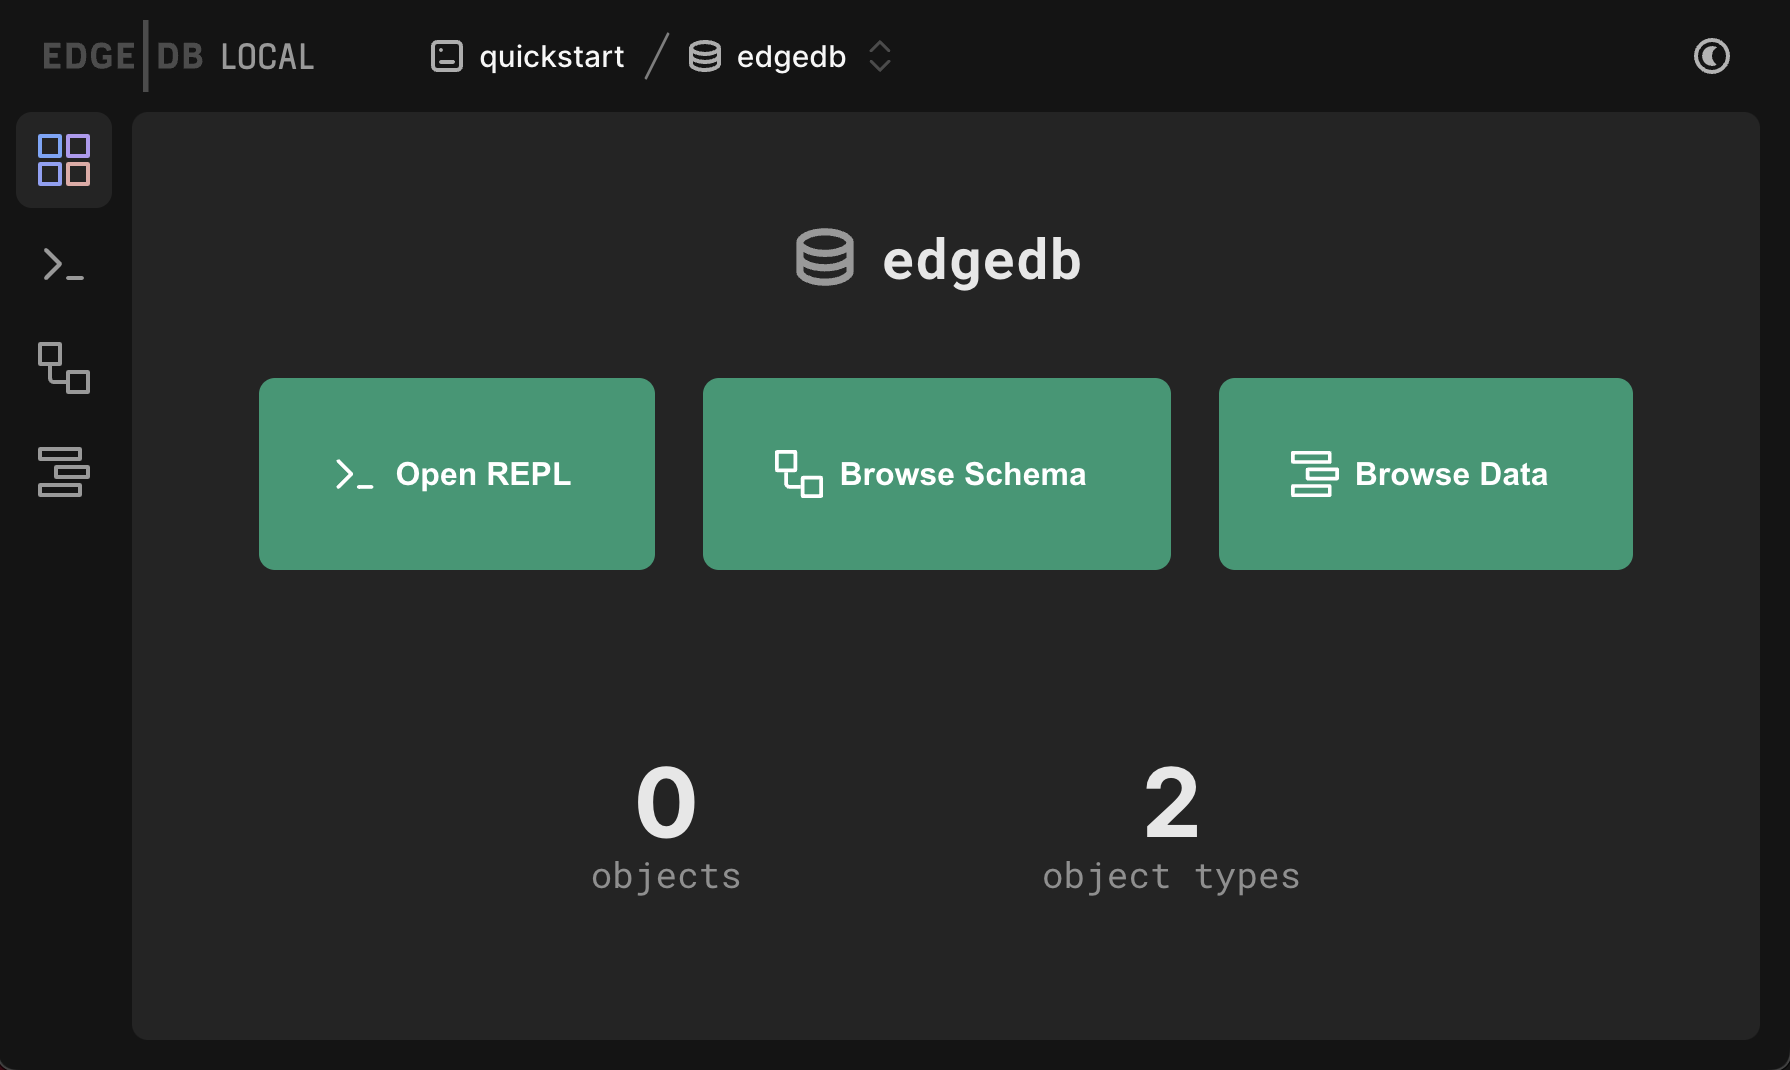
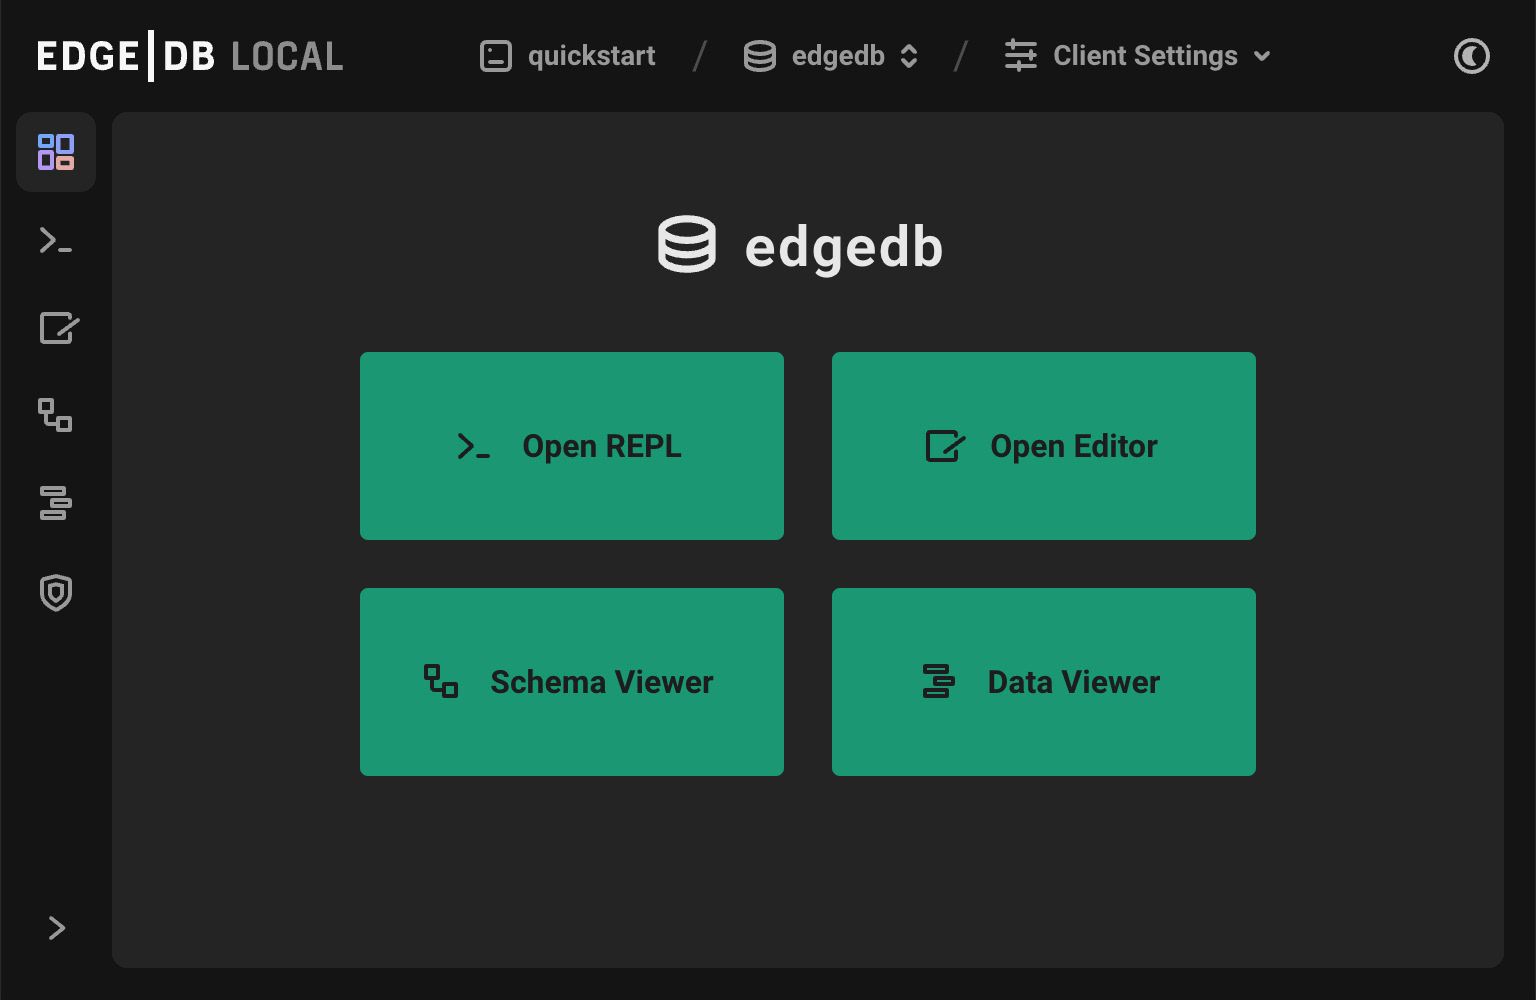
docs: Update the Get Started docs to 4.1

diff --git a/docs/intro/quickstart.rst b/docs/intro/quickstart.rst
@@ -75,22 +75,23 @@ up your first EdgeDB instance. You should see something like this:
   No `edgedb.toml` found in `/path/to/quickstart` or above
   Do you want to initialize a new project? [Y/n]
   > Y
-  Specify the name of EdgeDB instance to use with this project [quickstart]:
+  Specify the name of EdgeDB instance to use with this project
+  [default: quickstart]:
   > quickstart
   Checking EdgeDB versions...
-  Specify the version of EdgeDB to use with this project [default: 2.x]:
-  > 2.x
+  Specify the version of EdgeDB to use with this project [default: 4.x]:
+  > 4.x
   ┌─────────────────────┬───────────────────────────────────────────────┐
   │ Project directory   │ ~/path/to/quickstart                          │
   │ Project config      │ ~/path/to/quickstart/edgedb.toml              │
   │ Schema dir (empty)  │ ~/path/to/quickstart/dbschema                 │
   │ Installation method │ portable package                              │
-  │ Version             │ 2.x+c21decd                                   │
+  │ Version             │ 4.x+cc4f3b5                                   │
   │ Instance name       │ quickstart                                    │
   └─────────────────────┴───────────────────────────────────────────────┘
   Downloading package...
-  00:00:01 [====================] 32.98MiB/32.98MiB 32.89MiB/s | ETA: 0s
-  Successfully installed 2.x+c21decd
+  00:00:01 [====================] 41.40 MiB/41.40 MiB 32.89MiB/s | ETA: 0s
+  Successfully installed 4.x+cc4f3b5
   Initializing EdgeDB instance...
   Applying migrations...
   Everything is up to date. Revision initial
@@ -304,12 +305,13 @@ Enter ``y`` to confirm the change.
   > y
   Please specify an expression to populate existing objects in
   order to make property 'title' of object type 'default::Movie' required:
-  fill_expr>
+  fill_expr> <std::str>{}
 
 Hm, now we're seeing another prompt. Because ``title`` is changing from
 *optional* to *required*, EdgeDB is asking us what to do for all the ``Movie``
 objects that don't currently have a value for ``title`` defined. We'll just
-specify a placeholder value: ``"Untitled"``.
+specify a placeholder value of "Untitled". Replace the ``<std::str>{}`` value
+with ``"Untitled"`` and press Enter.
 
 .. code-block::
 
@@ -324,7 +326,7 @@ lines:
 
   ALTER TYPE default::Movie {
     ALTER PROPERTY title {
-      SET REQUIRED USING ("Untitled");
+      SET REQUIRED USING ('Untitled');
     };
   };
 
@@ -366,14 +368,16 @@ default. Click the ``edgedb`` card.
 .. image:: images/ui_db.jpg
   :width: 100%
 
-Then click ``Open REPL`` so we can start writing some queries. We'll start
-simple: ``select "Hello world!"``. Click ``RUN`` to execute the query.
+Then click ``Open Editor`` so we can start writing some queries. We'll start
+simple: ``select "Hello world!";``. Click ``RUN`` to execute the query.
 
 .. image:: images/ui_hello.jpg
     :width: 100%
 
-The query should appear in the "query notebook" on the right, along with the
-result of the query.
+The result of the query will appear on the right.
+
+The query will also be added to your history of previous queries, which can be
+accessed via the "HISTORY" tab located on the lower left side of the editor.
 
 Now let's actually ``insert`` an object into our database. Copy the following
 query into the query textarea and hit ``Run``.
@@ -409,7 +413,8 @@ Finally, we can run a ``select`` query to fetch all the data we just inserted.
     }
   };
 
-Click ``COPY AS JSON`` to copy the result of this query to your clipboard. It
+Click the outermost ``COPY`` button in the top right of the query result area
+to copy the result of this query to your clipboard as JSON. The copied text
 will look something like this:
 
 .. code-block:: json
@@ -418,8 +423,12 @@ will look something like this:
     {
       "title": "Dune",
       "actors": [
-        { "name": "Timothee Chalamet" },
-        { "name": "Zendaya" }
+        {
+          "name": "Timothee Chalamet"
+        },
+        {
+          "name": "Zendaya"
+        }
       ]
     }
   ]

diff --git a/docs/intro/cli.rst b/docs/intro/cli.rst
@@ -37,7 +37,7 @@ shell environment. Then test the installation:
 .. code-block:: bash
 
     $ edgedb --version
-    EdgeDB CLI 2.x+abcdefg
+    EdgeDB CLI 4.x+abcdefg
 
 .. note::
 
@@ -60,23 +60,19 @@ to see a breakdown of all the commands and options.
 .. code-block:: bash
 
   $ edgedb --help
-  EdgeDB CLI
-  Use the edgedb command-line tool to spin up local instances, manage EdgeDB
-  projects, create and apply migrations, and more.
+  Usage: edgedb [OPTIONS] [COMMAND]
 
-  Running edgedb without a subcommand opens an interactive shell.
+  Commands:
+    <list of commands>
 
-  USAGE:
-    edgedb [OPTIONS] [SUBCOMMAND]
-
-  OPTIONS:
+  Options:
     <list of options>
 
-  CONNECTION OPTIONS (edgedb --help-connect to see the full list):
+  Connection Options (edgedb --help-connect to see full list):
     <list of connection options>
 
-  SUBCOMMANDS:
-    <list of all major commands>
+  Cloud Connection Options:
+    <list of cloud connection options>
 
 The majority of CLI commands perform some action against a *particular* EdgeDB
 instance. As such, there are a standard set of flags that are used to specify
@@ -86,28 +82,31 @@ information like TLS certificates. The following command documents these flags.
 .. code-block:: bash
 
   $ edgedb --help-connect
-  -I, --instance <instance>
-        Local instance name created with edgedb instance create to connect to
-        (overrides host and port)
-  --dsn <dsn>
-        DSN for EdgeDB to connect to (overrides all other options except
-        password)
-  --credentials-file <credentials_file>
-        Path to JSON file to read credentials from
-  -H, --host <host>
-        Host of the EdgeDB instance
-  -P, --port <port>
-        Port to connect to EdgeDB
-  --unix-path <unix_path>
-        Unix socket dir for the
-  -u, --user <user>
-        User name of the EdgeDB user
-  -d, --database <database>
-        Database name to connect to
-  --password
-        Ask for password on the terminal (TTY)
-  --no-password
-        Don't ask for password
+  Connection Options (full list):
+
+    -I, --instance <INSTANCE>
+            Instance name (use `edgedb instance list` to list local, remote and
+            Cloud instances available to you)
+
+        --dsn <DSN>
+            DSN for EdgeDB to connect to (overrides all other options except
+            password)
+
+        --credentials-file <CREDENTIALS_FILE>
+            Path to JSON file to read credentials from
+
+    -H, --host <HOST>
+            EdgeDB instance host
+
+    -P, --port <PORT>
+            Port to connect to EdgeDB
+
+        --unix-path <UNIX_PATH>
+            A path to a Unix socket for EdgeDB connection
+
+            When the supplied path is a directory, the actual path will be
+            computed using the `--port` and `--admin` parameters.
+    ...
 
 If you ever want to see documentation for a particular command (``edgedb
 migration create``) or group of commands (``edgedb instance``), just append
@@ -118,19 +117,15 @@ the ``--help`` flag.
   $ edgedb instance --help
   Manage local EdgeDB instances
 
-  USAGE:
-      edgedb instance <SUBCOMMAND>
+  Usage: edgedb instance <COMMAND>
 
-  OPTIONS:
-      -h, --help    Print help information
-
-  SUBCOMMANDS:
-      create            Initialize a new EdgeDB instance
-      credentials       Echo credentials to connect to the instance
-      destroy           Destroy an instance and remove the data
-      link              Link a remote instance
-      list              Show all instances
-      ...
+  Commands:
+    create          Initialize a new EdgeDB instance
+    list            Show all instances
+    status          Show status of an instance
+    start           Start an instance
+    stop            Stop an instance
+    ...
 
 Upgrade the CLI
 ---------------

diff --git a/docs/intro/projects.rst b/docs/intro/projects.rst
@@ -54,13 +54,19 @@ project init`` inside it. You'll see something like this:
   No `edgedb.toml` found in this repo or above.
   Do you want to initialize a new project? [Y/n]
   > Y
-  Specify the version of EdgeDB to use with this project [2.x]:
-  > # (left blank for default)
-  Specify the name of EdgeDB instance to use with this project:
+  Specify the name of EdgeDB instance to use with this project
+  [default: my_instance]:
   > my_instance
+  Checking EdgeDB versions...
+  Specify the version of EdgeDB to use with this project [default: 4.x]:
+  > # (left blank for default)
+  ...
+  Successfully installed 4.x+cc4f3b5
   Initializing EdgeDB instance...
-  Bootstrap complete. Server is up and running now.
-  Project initialialized.
+  Applying migrations...
+  Everything is up to date. Revision initial
+  Project initialized.
+  To connect to my_instance, run `edgedb`
 
 This command does a couple important things.
 
@@ -73,7 +79,7 @@ This command does a couple important things.
    .. code-block:: toml
 
      [edgedb]
-     server-version = "2.1"
+     server-version = "4.1"
 
 3. If no ``dbschema`` directory exists, it will be created, along with an
    empty ``default.esdl`` file which will contain your schema. If a
@@ -103,9 +109,9 @@ executed against the project-linked instance. For instance, you can simply run
 .. code-block:: bash
 
   $ edgedb
-  EdgeDB 2.x+88c1706 (repl 2.x+a7fc49b)
+  EdgeDB 4.x+cc4f3b5 (repl 4.x+da2788e)
   Type \help for help, \quit to quit.
-  edgedb> select "Hello world!";
+  my_instance:edgedb> select "Hello world!";
 
 By contrast, if you leave the project directory, the CLI will no longer know
 which instance to connect to. You can solve this by specifing an instance name
@@ -115,14 +121,13 @@ with the ``-I`` flag.
 
   $ cd ~
   $ edgedb
-  ClientNoCredentialsError: no `edgedb.toml` found and no
-  connection options are specified
-  Hint: Run `edgedb project init` or use any of `-H`, `-P`, `-I` arguments
-  to specify connection parameters. See `--help` for details
+  edgedb error: no `edgedb.toml` found and no connection options are specified
+    Hint: Run `edgedb project init` or use any of `-H`, `-P`, `-I` arguments to
+    specify connection parameters. See `--help` for details
   $ edgedb -I my_instance
-  EdgeDB 2.x+88c1706 (repl 2.x+a7fc49b)
+  EdgeDB 4.x+cc4f3b5 (repl 4.x+da2788e)
   Type \help for help, \quit to quit.
-  edgedb>
+  my_instance:edgedb>
 
 Similarly, client libraries will auto-connect to the project's
 linked instance without additional configuration.
@@ -140,13 +145,13 @@ instance using ``edgedb instance link``, like so:
 .. code-block:: bash
 
   $ edgedb instance link
-  Specify the host of the server [default: localhost]:
+  Specify server host [default: localhost]:
   > 192.168.4.2
-  Specify the port of the server [default: 5656]:
+  Specify server port [default: 5656]:
   > 10818
-  Specify the database user [default: edgedb]:
+  Specify database user [default: edgedb]:
   > edgedb
-  Specify the database name [default: edgedb]:
+  Specify database name [default: edgedb]:
   > edgedb
   Unknown server certificate: SHA1:c38a7a90429b033dfaf7a81e08112a9d58d97286.
   Trust? [y/N]
@@ -199,7 +204,7 @@ A standalone instance (not linked to a project) can be upgraded with the
 
   $ edgedb project upgrade --to-latest
   $ edgedb project upgrade --to-nightly
-  $ edgedb project upgrade --to-version 2.x
+  $ edgedb project upgrade --to-version 4.x
 
 
 See info

diff --git a/docs/intro/instances.rst b/docs/intro/instances.rst
@@ -72,9 +72,9 @@ To list all instances on your machine:
   ┌────────┬──────────────────┬──────────┬────────────────┬──────────┐
   │ Kind   │ Name             │ Port     │ Version        │ Status   │
   ├────────┼──────────────────┼──────────┼────────────────┼──────────┤
-  │ local  │ my_instance      │ 10700    │ 2.x+8421216    │ active   │
-  │ local  │ my_instance_2    │ 10701    │ 2.x+8421216    │ active   │
-  │ local  │ my_instance_3    │ 10702    │ 2.x+8421216    │ active   │
+  │ local  │ my_instance      │ 10700    │ 4.x+cc4f3b5    │ active   │
+  │ local  │ my_instance_2    │ 10701    │ 4.x+cc4f3b5    │ active   │
+  │ local  │ my_instance_3    │ 10702    │ 4.x+cc4f3b5    │ active   │
   └────────┴──────────────────┴──────────┴────────────────┴──────────┘
 
 Further reference
@@ -87,5 +87,3 @@ viewing logs, etc.), refer to the :ref:`edgedb instance
 .. code-block:: bash
 
   $ edgedb instance --help
-
-
